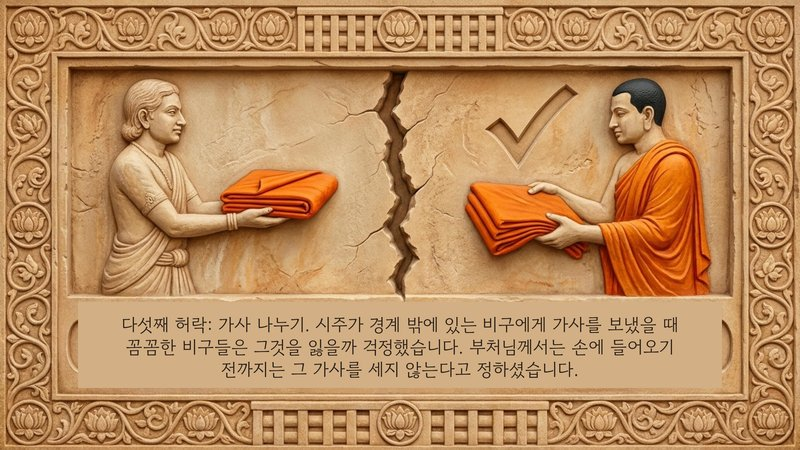
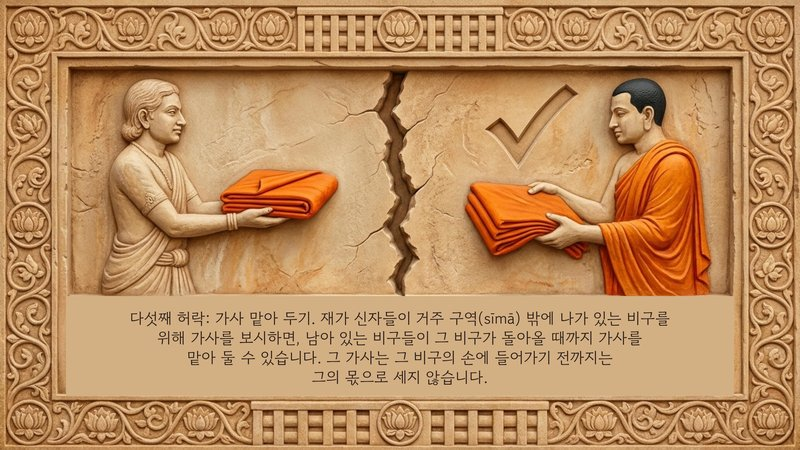
검수용 한글 그림 [skip ci]

diff --git a/qa.md b/qa.md
@@ -1,4 +1,6 @@
 # 자동 검수 결과
 
-이번에 만든 그림 중 문제 의심 0곳
+이번에 만든 그림 중 문제 의심 2곳
 
+- Foremost-Nuns/03-Uppalavanna 22번 그림, 상자 3 [자리] 한글이 원래 글 자리(504,1041-620,1130)에서 벗어남 (809,1087)
+- Foremost-Nuns/03-Uppalavanna 22번 그림, 상자 4 [자리] 한글이 원래 글 자리(1997,1043-2042,1136)에서 벗어남 (1834,1087)
